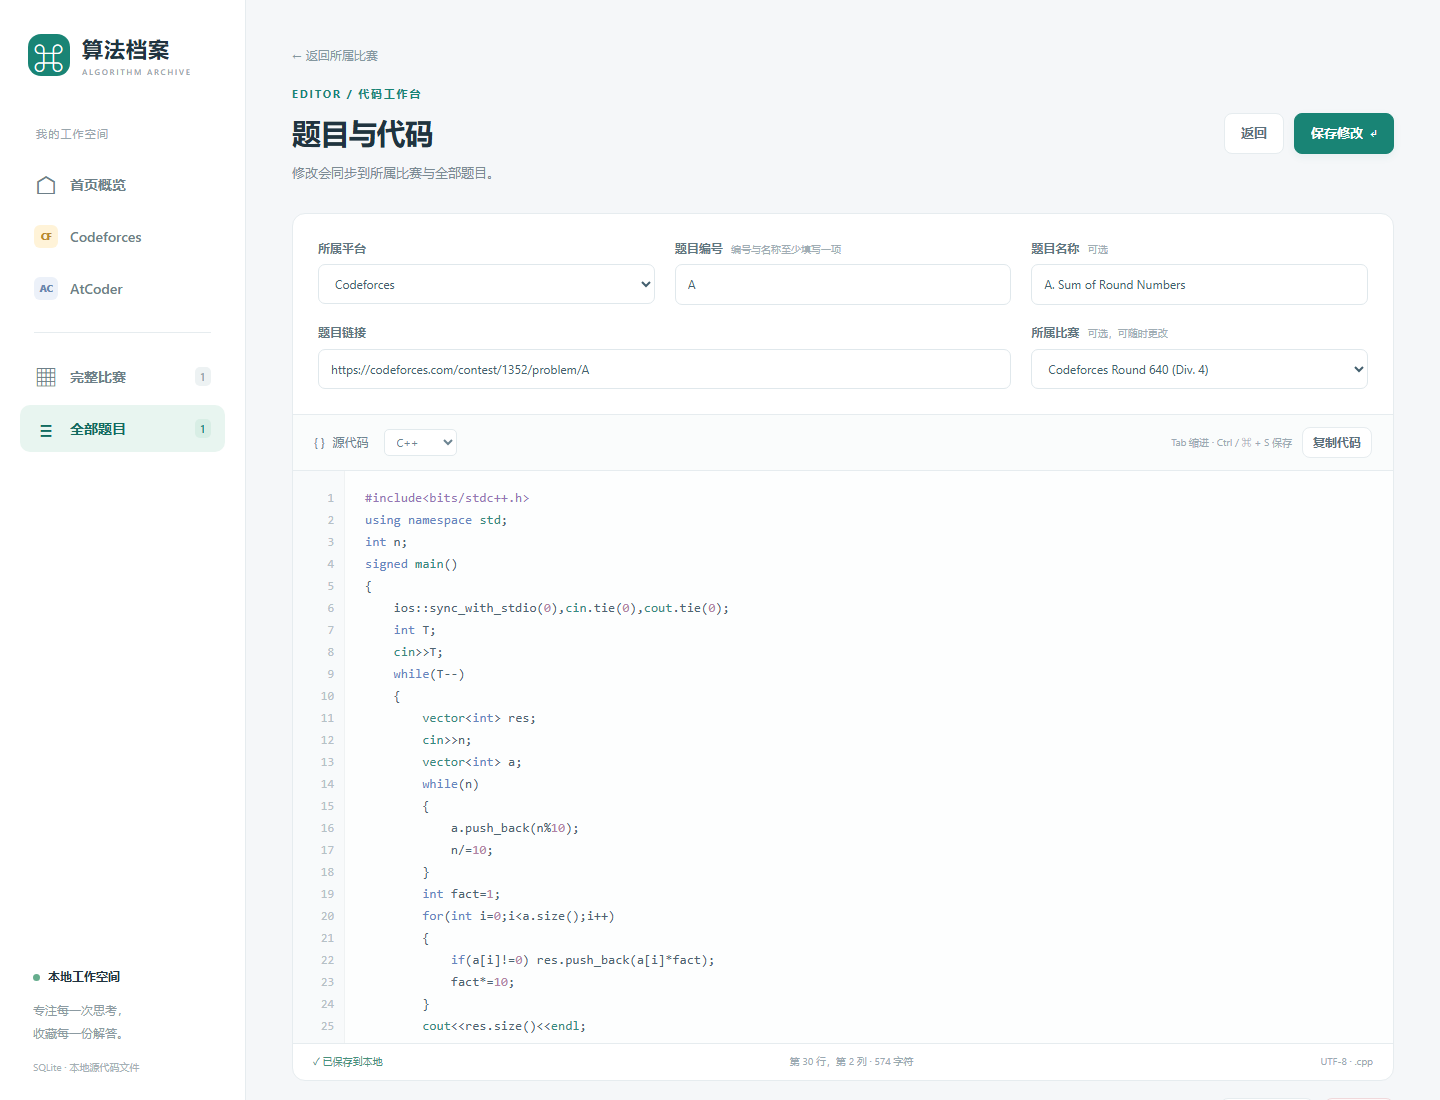
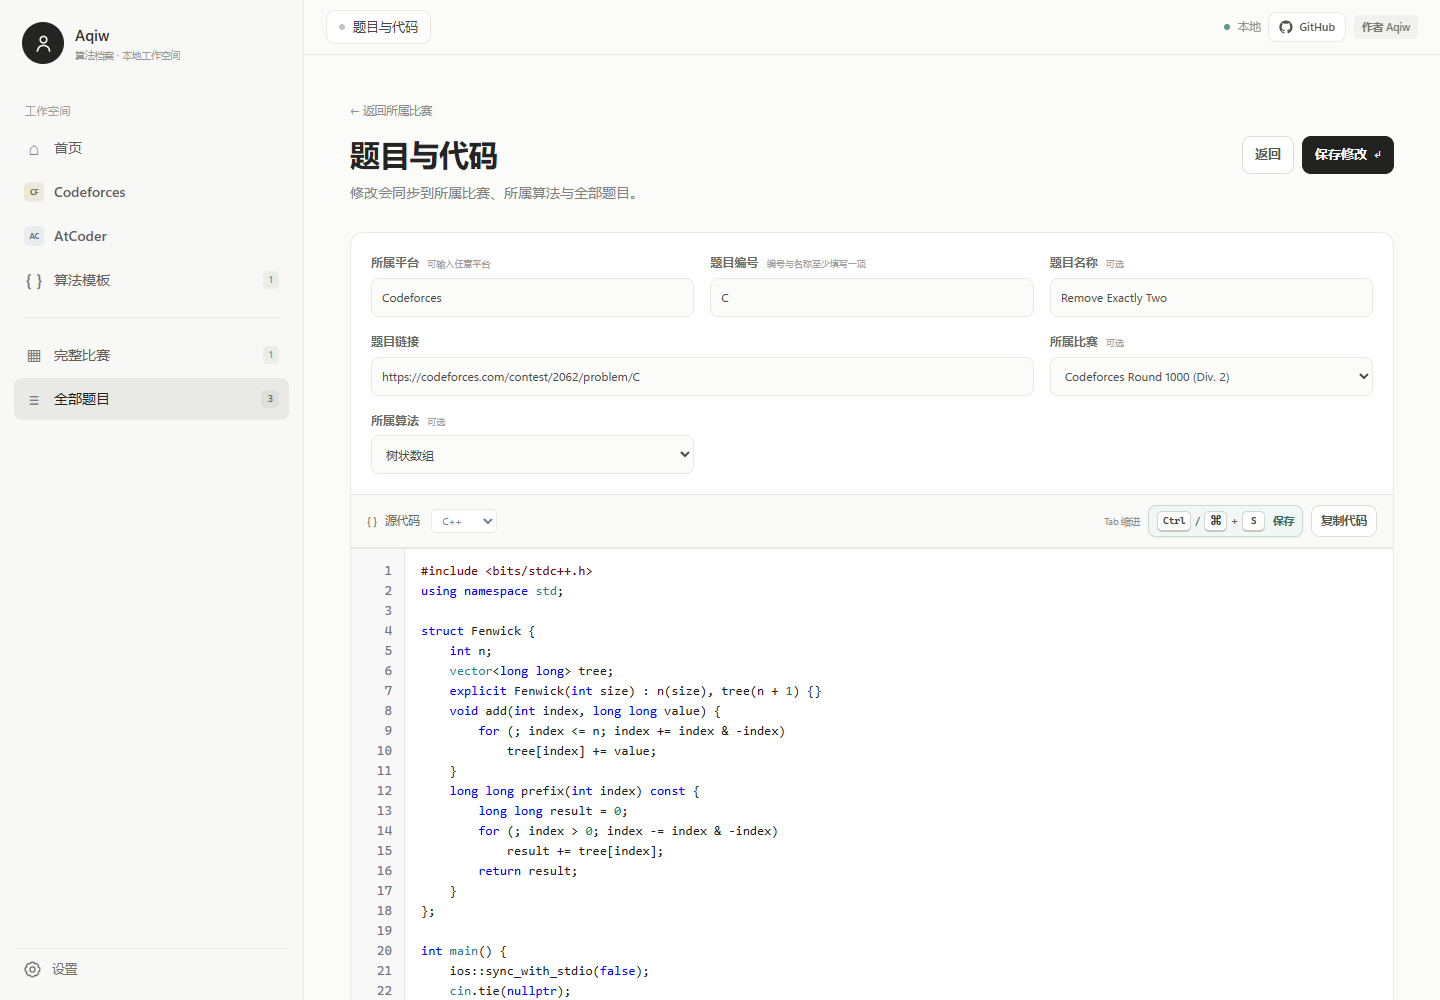
fix: stabilize Windows CI and add interface previews

diff --git a/scripts/capture-readme.js b/scripts/capture-readme.js
@@ -1,0 +1,226 @@
+"use strict";
+
+const path = require("node:path");
+const { chromium } = require("playwright");
+
+const baseUrl = process.env.QA_URL || "http://127.0.0.1:8879/";
+const screenshots = path.resolve(__dirname, "..", "docs", "screenshots");
+
+async function main() {
+  const browser = await chromium.launch({
+    headless: true,
+    executablePath: "C:/Program Files/Google/Chrome/Application/chrome.exe",
+  });
+  const page = await browser.newPage({
+    viewport: { width: 1440, height: 1000 },
+    deviceScaleFactor: 1,
+  });
+
+  try {
+    await page.goto(baseUrl, { waitUntil: "networkidle" });
+    const initial = await page.evaluate(() => fetch("/api/state").then(response => response.json()));
+
+    async function request(route, method, payload) {
+      return page.evaluate(async ({ route, method, payload }) => {
+        const token = document.querySelector('meta[name="csrf-token"]').content;
+        const response = await fetch(route, {
+          method,
+          headers: {
+            "Content-Type": "application/json",
+            "X-CSRF-Token": token,
+          },
+          body: JSON.stringify(payload),
+        });
+        const data = await response.json();
+        if (!response.ok) {
+          throw new Error(`${method} ${route}: ${data.error || response.status}`);
+        }
+        return data;
+      }, { route, method, payload });
+    }
+
+    let algorithm;
+    let featureProblem;
+    if (!initial.algorithms.length && !initial.contests.length && !initial.problems.length) {
+      await request("/api/profile", "PUT", { name: "Aqiw", avatar: "" });
+      algorithm = (await request("/api/algorithms", "POST", {
+        name: "树状数组",
+        category: "数据结构",
+        description: "用二进制最低位维护前缀信息，支持单点修改和区间查询。",
+        links: [
+          { title: "OI Wiki · 树状数组", url: "https://oi-wiki.org/ds/fenwick/" },
+          { title: "cp-algorithms · Fenwick Tree", url: "https://cp-algorithms.com/data_structures/fenwick.html" },
+        ],
+      })).algorithm;
+      await request(`/api/algorithms/${algorithm.id}/snippets`, "POST", {
+        title: "单点修改 + 区间查询",
+        language: "cpp",
+        code: [
+          "#include <bits/stdc++.h>",
+          "using namespace std;",
+          "",
+          "struct Fenwick {",
+          "    int n;",
+          "    vector<long long> tree;",
+          "    Fenwick(int n) : n(n), tree(n + 1) {}",
+          "    void add(int x, long long value) {",
+          "        for (; x <= n; x += x & -x) tree[x] += value;",
+          "    }",
+          "    long long sum(int x) const {",
+          "        long long result = 0;",
+          "        for (; x > 0; x -= x & -x) result += tree[x];",
+          "        return result;",
+          "    }",
+          "};",
+          "",
+          "int main() {",
+          "    ios::sync_with_stdio(false);",
+          "    cin.tie(nullptr);",
+          "    return 0;",
+          "}",
+          "",
+        ].join("\n"),
+      });
+
+      const contest = (await request("/api/contests", "POST", {
+        platform: "codeforces",
+        title: "Codeforces Round 1000 (Div. 2)",
+        url: "https://codeforces.com/contest/2062",
+      })).contest;
+      const baseProblem = {
+        platform: "codeforces",
+        url: "https://codeforces.com/contest/2062/problem/A",
+        language: "cpp",
+        contest_id: contest.id,
+      };
+      await request("/api/problems", "POST", {
+        ...baseProblem,
+        number: "A",
+        name: "Minimal Coprime",
+        code: [
+          "#include <bits/stdc++.h>",
+          "using namespace std;",
+          "",
+          "int main() {",
+          "    ios::sync_with_stdio(false);",
+          "    cin.tie(nullptr);",
+          "    int T;",
+          "    cin >> T;",
+          "    while (T--) {",
+          "        int l, r;",
+          "        cin >> l >> r;",
+          "        cout << (l == 1 && r == 1 ? 1 : r - l + 1) << '\\n';",
+          "    }",
+          "    return 0;",
+          "}",
+          "",
+        ].join("\n"),
+      });
+      await request("/api/problems", "POST", {
+        ...baseProblem,
+        url: "https://codeforces.com/contest/2062/problem/B",
+        number: "B",
+        name: "Subsequence Update",
+        code: [
+          "#include <bits/stdc++.h>",
+          "using namespace std;",
+          "",
+          "int main() {",
+          "    ios::sync_with_stdio(false);",
+          "    cin.tie(nullptr);",
+          "    int T;",
+          "    cin >> T;",
+          "    while (T--) {",
+          "        int n, l, r;",
+          "        cin >> n >> l >> r;",
+          "        vector<long long> a(n);",
+          "        for (long long &value : a) cin >> value;",
+          "        cout << accumulate(a.begin(), a.end(), 0LL) << '\\n';",
+          "    }",
+          "}",
+          "",
+        ].join("\n"),
+      });
+      featureProblem = (await request("/api/problems", "POST", {
+        ...baseProblem,
+        url: "https://codeforces.com/contest/2062/problem/C",
+        number: "C",
+        name: "Remove Exactly Two",
+        algorithm_id: algorithm.id,
+        code: [
+          "#include <bits/stdc++.h>",
+          "using namespace std;",
+          "",
+          "struct Fenwick {",
+          "    int n;",
+          "    vector<long long> tree;",
+          "    explicit Fenwick(int size) : n(size), tree(n + 1) {}",
+          "    void add(int index, long long value) {",
+          "        for (; index <= n; index += index & -index)",
+          "            tree[index] += value;",
+          "    }",
+          "    long long prefix(int index) const {",
+          "        long long result = 0;",
+          "        for (; index > 0; index -= index & -index)",
+          "            result += tree[index];",
+          "        return result;",
+          "    }",
+          "};",
+          "",
+          "int main() {",
+          "    ios::sync_with_stdio(false);",
+          "    cin.tie(nullptr);",
+          "    int n, q;",
+          "    cin >> n >> q;",
+          "    Fenwick bit(n);",
+          "    while (q--) {",
+          "        int type, x;",
+          "        cin >> type >> x;",
+          "        if (type == 1) bit.add(x, 1);",
+          "        else cout << bit.prefix(x) << '\\n';",
+          "    }",
+          "}",
+          "",
+        ].join("\n"),
+      })).problem;
+    } else {
+      algorithm = initial.algorithms[0];
+      featureProblem = initial.problems.find(problem => problem.algorithm_id === algorithm?.id) || initial.problems[0];
+    }
+
+    if (!algorithm || !featureProblem) {
+      throw new Error("演示数据不完整，请使用新的空数据目录运行截图脚本。");
+    }
+
+    await page.reload({ waitUntil: "networkidle" });
+    await page.goto(`${baseUrl}#home`, { waitUntil: "networkidle" });
+    await page.waitForSelector(".stats-grid");
+    await page.screenshot({ path: path.join(screenshots, "dashboard.png") });
+
+    await page.goto(`${baseUrl}#algorithm/${algorithm.id}`, { waitUntil: "networkidle" });
+    await page.waitForSelector(".algorithm-info");
+    await page.screenshot({ path: path.join(screenshots, "algorithm.png") });
+
+    await page.goto(`${baseUrl}#problem/${featureProblem.id}`, { waitUntil: "networkidle" });
+    await page.waitForSelector("#code-input");
+    await page.screenshot({ path: path.join(screenshots, "editor.png") });
+
+    await page.click("#open-profile-settings");
+    await page.click('[data-settings-tab="browser"]');
+    await page.waitForSelector("#browser-settings-form");
+    await page.screenshot({ path: path.join(screenshots, "settings.png") });
+
+    console.log(JSON.stringify({
+      algorithm_id: algorithm.id,
+      problem_id: featureProblem.id,
+      screenshots: ["dashboard.png", "algorithm.png", "editor.png", "settings.png"],
+    }, null, 2));
+  } finally {
+    await browser.close();
+  }
+}
+
+main().catch(error => {
+  console.error(error);
+  process.exitCode = 1;
+});

diff --git a/tests/test_recovery.py b/tests/test_recovery.py
@@ -127,26 +127,12 @@ class RecoveryTests(unittest.TestCase):
 
     def test_code_path_tolerates_windows_logical_path_alias(self):
         relative = "codes/11111111111111111111111111111111.cpp"
-        original_resolve = Path.resolve
-        alias = (
-            Path(self.tmp.name)
-            / "Packages"
-            / "Virtualized"
-            / "Local"
-            / "AlgoArchive"
-            / "data"
-            / relative
+        resolved = self.repo._path(relative)
+        self.assertEqual(resolved, self.repo.data_dir / relative)
+        self.assertEqual(
+            resolved.resolve(),
+            (self.data / relative).resolve(),
         )
-
-        def resolve_alias(path, *args, **kwargs):
-            if path.name.endswith(".cpp") and path.parent.name == "codes":
-                return alias
-            return original_resolve(path, *args, **kwargs)
-
-        with mock.patch.object(Path, "resolve", autospec=True, side_effect=resolve_alias):
-            resolved = self.repo._path(relative)
-
-        self.assertEqual(resolved, self.data / relative)
 
     def test_crlf_source_bytes_are_preserved(self):
         source = "// Windows 换行\r\nint main() {\r\n  return 0;\r\n}\r\n"

diff --git a/tests/test_storage_migration.py b/tests/test_storage_migration.py
@@ -340,7 +340,7 @@ class StorageMigrationTests(unittest.TestCase):
         finally:
             repo.close()
 
-        self.assertEqual(result["new_data_dir"], str(target))
+        self.assertEqual(result["new_data_dir"], str(target.resolve()))
         moved = Repository(target)
         try:
             state = moved.state()

diff --git a/README.md b/README.md
@@ -9,8 +9,32 @@ AlgoArchive 使用本地 Python 标准库服务和原生 HTML/CSS/JavaScript 界
 比赛、题目、算法模板、多份代码、参考链接、头像和设置均保存在当前
 Windows 用户的数据目录中，不上传、不自动提交，也不执行代码。
 
-[功能](#功能) · [安装](#安装) · [数据](#数据与配置) · [备份](#备份与恢复) ·
+[界面预览](#界面预览) · [功能](#功能) · [安装](#安装) · [数据](#数据与配置) · [备份](#备份与恢复) ·
 [浏览器](#浏览器与窗口模式) · [开发](#开发与发布)
+
+## 界面预览
+
+### 本地工作空间
+
+![算法档案首页](docs/screenshots/dashboard.png)
+
+### 算法模板
+
+每个算法都可以管理多道题目、多份代码和多个参考链接。
+
+![树状数组算法详情](docs/screenshots/algorithm.png)
+
+### 代码工作台
+
+VS Code 风格编辑器，支持行号、语法高亮、`Ctrl+S` 保存和本地源文件备份。
+
+![题目代码编辑器](docs/screenshots/editor.png)
+
+### 设置与诊断
+
+浏览器与窗口打开方式可在本地设置中选择，不修改 Windows 全局默认应用。
+
+![设置与诊断](docs/screenshots/settings.png)
 
 ## 功能
 
